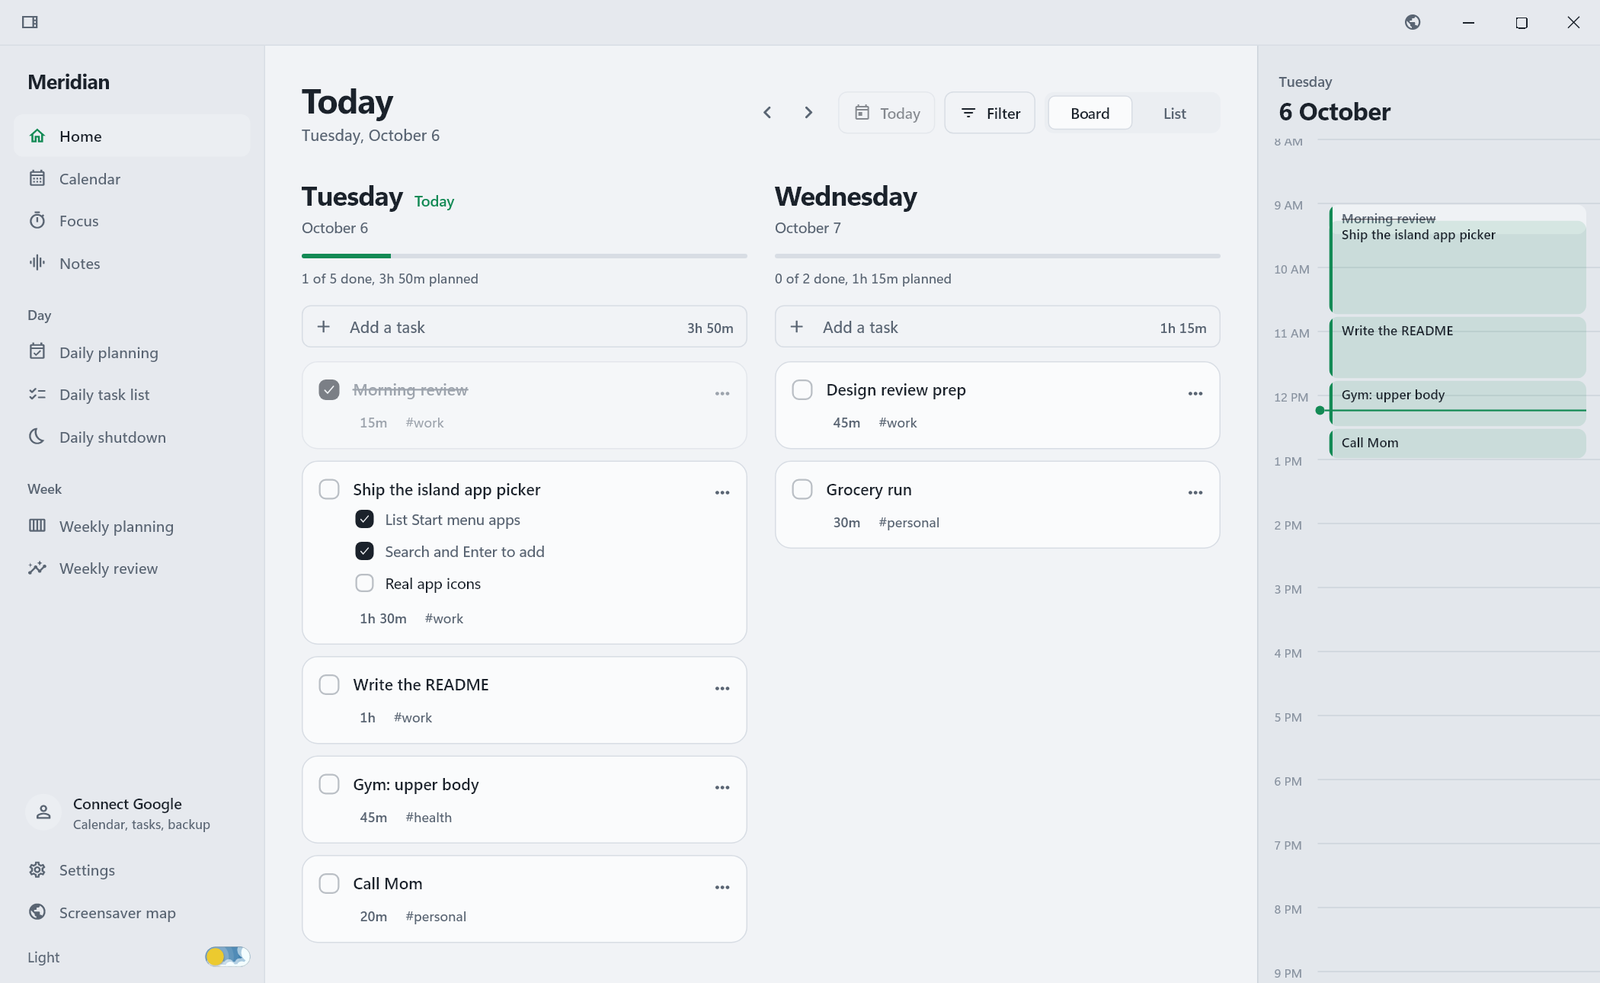
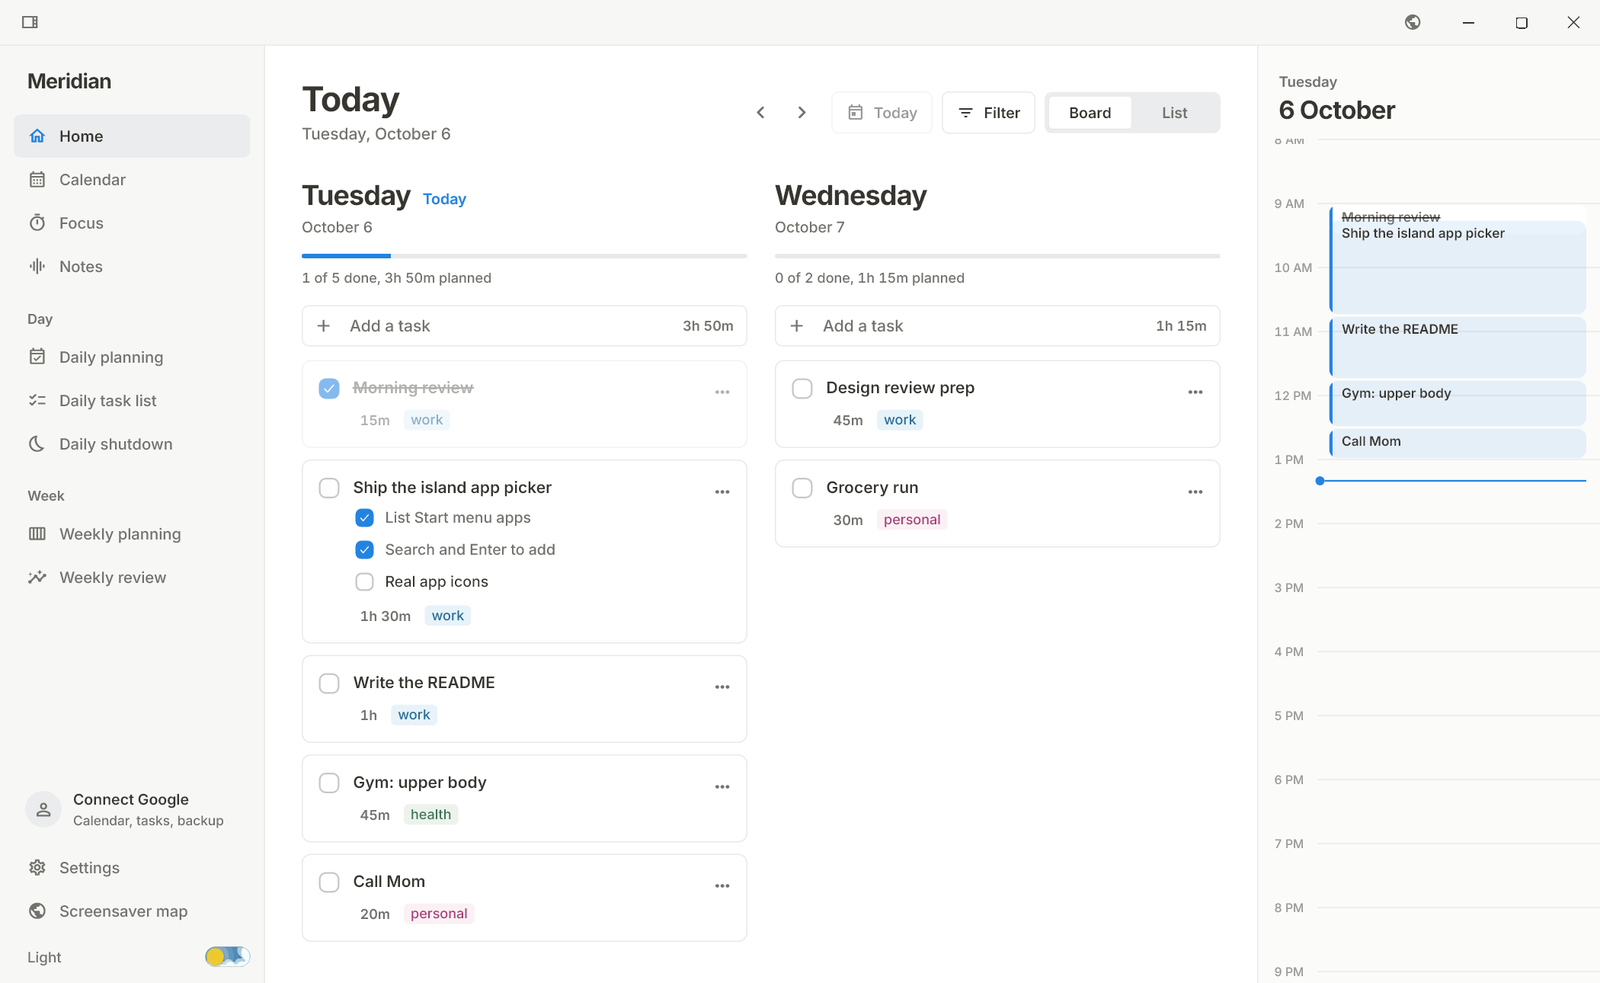
planner: Notion-style palette, pastel tags and flatter surfaces

diff --git a/aod_world_map/lib/desktop/home_theme.dart b/aod_world_map/lib/desktop/home_theme.dart
@@ -6,9 +6,10 @@ const _monthNames = [
   'September', 'October', 'November', 'December',
 ];
 
-/// Shape rule for the whole planner: controls and inputs use 8, surfaces
-/// use 14, checkboxes use 6, toggles are pills. Nothing else.
-const _rSm = 8.0, _rLg = 14.0;
+/// Shape rule for the whole planner: controls and inputs use 6, surfaces
+/// use 8, checkboxes use 6, toggles are pills. Nothing else. Small radii and
+/// hairline borders instead of shadows keep it flat and document-like.
+const _rSm = 6.0, _rLg = 8.0;
 const _fontFallback = ['Segoe UI', 'Roboto'];
 
 class _FontChoice {
@@ -17,8 +18,8 @@ class _FontChoice {
 }
 
 const _fonts = [
-  _FontChoice('Segoe UI', 'Segoe UI Variable Display', 'Current default, built into Windows'),
-  _FontChoice('Inter', 'Inter', 'Bundled with the app'),
+  _FontChoice('Inter', 'Inter', 'Default, bundled with the app'),
+  _FontChoice('Segoe UI', 'Segoe UI Variable Display', 'Built into Windows'),
   _FontChoice('Geist', 'Geist', 'Bundled with the app'),
   _FontChoice('Plus Jakarta Sans', 'Plus Jakarta Sans', 'Bundled with the app'),
   _FontChoice('Satoshi', 'Satoshi', 'Install it in Windows first, then pick it'),
@@ -52,44 +53,76 @@ TextStyle _ts(
       fontSize: size,
       fontWeight: w,
       letterSpacing: ls,
-      height: h,
+      // Body text gets room to breathe; headings stay tight.
+      height: h ?? (size <= 15 ? 1.45 : null),
       decoration: deco,
       fontFeatures: tab ? const [FontFeature.tabularFigures()] : null,
       // Variable fonts need the weight axis set explicitly. Static fonts ignore it.
       fontVariations: [FontVariation('wght', w.value.toDouble())],
     );
 
-/// One palette: deep slate greys, one emerald accent for progress only.
-/// Buttons and checks use the foreground colour, like shadcn's neutral theme.
+/// One palette in the spirit of Notion: warm neutrals on white (or near
+/// black), hairline dividers, and one calm blue accent for selection,
+/// progress and checks. Text tiers are the main text colour at lower
+/// strength, pre-blended so they stay solid on any surface.
 class _T {
   _T(this.dark)
-      : bg = dark ? const Color(0xFF1B2129) : const Color(0xFFF1F3F6),
-        side = dark ? const Color(0xFF161B22) : const Color(0xFFE6E9EE),
-        surface = dark ? const Color(0xFF222932) : const Color(0xFFFAFBFC),
-        raised = dark ? const Color(0xFF2B333D) : const Color(0xFFEBEEF2),
-        line = dark ? const Color(0xFF353E4A) : const Color(0xFFD8DDE4),
-        text = dark ? const Color(0xFFE6EAF0) : const Color(0xFF1B222B),
-        sub = dark ? const Color(0xFFA3ADBA) : const Color(0xFF5A6573),
-        faint = dark ? const Color(0xFF737E8C) : const Color(0xFF8A94A1),
-        focus = dark ? const Color(0xFF9AA5B3) : const Color(0xFF3C4652),
-        accent = dark ? const Color(0xFF3DD68C) : const Color(0xFF138A55),
-        onAccent = dark ? const Color(0xFF07140D) : const Color(0xFFFBFBFC),
-        warn = dark ? const Color(0xFFF0757D) : const Color(0xFFC0392B),
-        panel = dark ? const Color(0xFF1F2630) : const Color(0xFFE3E7EC),
-        panelLine = dark ? const Color(0xFF323B47) : const Color(0xFFCDD3DB),
-        panelCard = dark ? const Color(0xFF29313C) : const Color(0xFFEFF2F5);
+      : bg = dark ? const Color(0xFF191919) : const Color(0xFFFFFFFF),
+        side = dark ? const Color(0xFF202020) : const Color(0xFFF7F7F5),
+        surface = dark ? const Color(0xFF202020) : const Color(0xFFFFFFFF),
+        raised = dark ? const Color(0xFF37352F) : const Color(0xFFEBECED),
+        line = dark ? const Color(0xFF2F2F2F) : const Color(0xFFE9E9E7), // text at ~9%
+        text = dark ? const Color(0xFFE8E8E8) : const Color(0xFF37352F), // dark: white at 90%
+        sub = dark ? const Color(0xFFA3A3A3) : const Color(0xFF73726D), // text at 60% / 70%
+        faint = dark ? const Color(0xFF818181) : const Color(0xFF9B9A97), // text at 45% / 50%
+        focus = dark ? const Color(0xFFA3A3A3) : const Color(0xFF37352F),
+        accent = const Color(0xFF2383E2),
+        onAccent = const Color(0xFFFFFFFF),
+        warn = dark ? const Color(0xFFFF7369) : const Color(0xFFD44C47),
+        panel = dark ? const Color(0xFF202020) : const Color(0xFFFBFBFA),
+        panelLine = dark ? const Color(0xFF2F2F2F) : const Color(0xFFE9E9E7),
+        panelCard = dark ? const Color(0xFF252525) : const Color(0xFFFFFFFF);
 
   final bool dark;
   final Color bg, side, surface, raised, line, text, sub, faint, focus, accent, onAccent, warn;
   final Color panel, panelLine, panelCard;
-  Color get accentSoft => accent.withValues(alpha: dark ? 0.16 : 0.12);
+  Color get accentSoft => accent.withValues(alpha: dark ? 0.16 : 0.10);
+
+  /// A tag's pastel: a soft tint behind text of the same hue, darker in
+  /// light mode and lighter in dark mode so it reads at small sizes.
+  ({Color bg, Color fg}) tag(String name) {
+    final hue = switch (name) {
+      'work' => 0,
+      'personal' => 1,
+      'health' => 2,
+      _ => 3 + name.codeUnits.fold(0, (a, b) => a + b) % (_tagFg.length - 3),
+    };
+    final fg = (dark ? _tagFgDark : _tagFg)[hue];
+    return dark
+        ? (bg: Color.alphaBlend(fg.withValues(alpha: 0.2), bg), fg: fg)
+        : (bg: _tagBg[hue], fg: fg);
+  }
 }
+
+// Blue, pink, green, then yellow, purple, orange, red, brown for other tags.
+const _tagBg = [
+  Color(0xFFE7F3F8), Color(0xFFFAF1F5), Color(0xFFEDF3EC), Color(0xFFFBF3DB),
+  Color(0xFFF6F3F9), Color(0xFFFBECDD), Color(0xFFFDEBEC), Color(0xFFF4EEEE),
+];
+const _tagFg = [
+  Color(0xFF2B6F99), Color(0xFFA83F77), Color(0xFF3C7556), Color(0xFF8A6214),
+  Color(0xFF7A4FA0), Color(0xFFA4560B), Color(0xFFB53F3A), Color(0xFF80553F),
+];
+const _tagFgDark = [
+  Color(0xFF6FB0DA), Color(0xFFEC7DB8), Color(0xFF4DAB9A), Color(0xFFDFAB01),
+  Color(0xFFB593E6), Color(0xFFFFA344), Color(0xFFFF7369), Color(0xFFC99A86),
+];
 
 /// Planner preferences, saved next to the other app files.
 class _Prefs extends ChangeNotifier {
   static final _Prefs i = _Prefs();
 
-  String font = 'Segoe UI Variable Display';
+  String font = 'Inter';
   bool sidebarOpen = true, showSchedule = true;
   Set<String> calHidden = {};
   int calMode = 1; // Calendar page: 0 day, 1 week, 2 month

diff --git a/aod_world_map/lib/desktop/home_widgets.dart b/aod_world_map/lib/desktop/home_widgets.dart
@@ -106,9 +106,9 @@ class _BtnState extends State<_Btn> {
     final t = widget.t;
     final on = widget.onTap != null;
     final primary = widget.primary;
-    final fg = primary ? t.bg : t.text;
+    final fg = primary ? t.onAccent : t.text;
     final bg = primary
-        ? (_hover && on ? Color.lerp(t.text, t.bg, 0.12)! : t.text)
+        ? (_hover && on ? Color.lerp(t.accent, Colors.black, 0.1)! : t.accent)
         : (_hover && on ? t.raised : Colors.transparent);
     final border = primary || widget.ghost ? Colors.transparent : t.line;
     return Opacity(
@@ -243,6 +243,23 @@ class _Seg extends StatelessWidget {
 
 /// Animated checkbox: square box, foreground fill when checked, tick drawn
 /// stroke by stroke. Ported from the supplied React component.
+/// A tag as a soft pastel pill, the way Notion shows select options.
+class _TagChip extends StatelessWidget {
+  const _TagChip(this.t, this.tag);
+  final _T t;
+  final String tag;
+
+  @override
+  Widget build(BuildContext context) {
+    final c = t.tag(tag);
+    return Container(
+      padding: const EdgeInsets.symmetric(horizontal: 6, vertical: 1),
+      decoration: BoxDecoration(color: c.bg, borderRadius: BorderRadius.circular(4)),
+      child: Text(tag, style: _ts(c.fg, 12, h: 1.35)),
+    );
+  }
+}
+
 class _Check extends StatefulWidget {
   const _Check(this.t, this.done, this.onTap, {this.size = 18});
   final _T t;
@@ -274,7 +291,7 @@ class _CheckState extends State<_Check> {
             width: s,
             height: s,
             decoration: BoxDecoration(
-              color: widget.done ? t.text : Colors.transparent,
+              color: widget.done ? t.accent : Colors.transparent,
               borderRadius: BorderRadius.circular(6 * s / 18),
               border: Border.all(
                 color: widget.done ? Colors.transparent : t.sub.withValues(alpha: _hover ? 0.6 : 0.4),
@@ -285,7 +302,7 @@ class _CheckState extends State<_Check> {
               tween: Tween<double>(end: widget.done ? 1 : 0),
               duration: const Duration(milliseconds: 300),
               curve: Curves.easeOut,
-              builder: (_, v, __) => CustomPaint(painter: _TickPainter(v, t.bg)),
+              builder: (_, v, __) => CustomPaint(painter: _TickPainter(v, t.onAccent)),
             ),
           ),
         ),

diff --git a/aod_world_map/lib/desktop/home_calendar.dart b/aod_world_map/lib/desktop/home_calendar.dart
@@ -592,9 +592,17 @@ class _CalendarViewState extends State<_CalendarView> {
             _IconBtn(t, Icons.view_sidebar_outlined, 'Show sidebar  `', () => setState(() => _rail = true), size: 17),
             const SizedBox(width: 6),
           ],
-          AnimatedSwitcher(
-            duration: const Duration(milliseconds: 180),
-            child: Text(_title, key: ValueKey(_title), style: _ts(t.text, 22, w: FontWeight.w700, ls: -0.5)),
+          // The title gives way (with an ellipsis) when the window is narrow.
+          Flexible(
+            child: AnimatedSwitcher(
+              duration: const Duration(milliseconds: 180),
+              child: Text(_title,
+                  key: ValueKey(_title),
+                  maxLines: 1,
+                  softWrap: false,
+                  overflow: TextOverflow.ellipsis,
+                  style: _ts(t.text, 22, w: FontWeight.w700, ls: -0.5)),
+            ),
           ),
           const SizedBox(width: 12),
           AnimatedOpacity(
@@ -1437,9 +1445,7 @@ class _CalTimeGridState extends State<_CalTimeGrid> {
                         child: DecoratedBox(
                           decoration: BoxDecoration(
                             borderRadius: BorderRadius.circular(4),
-                            boxShadow: [
-                              BoxShadow(color: Colors.black.withValues(alpha: t.dark ? 0.45 : 0.15), blurRadius: 12, offset: const Offset(0, 4)),
-                            ],
+                            border: Border.all(color: t.line),
                           ),
                           child: _TimedBlock(
                             t: t,

diff --git a/aod_world_map/lib/desktop/home_tasks.dart b/aod_world_map/lib/desktop/home_tasks.dart
@@ -271,8 +271,8 @@ class _TaskCard extends StatelessWidget {
                       radius: 6,
                       onTap: () => p.cycleTag(task),
                       child: Padding(
-                        padding: const EdgeInsets.symmetric(horizontal: 6, vertical: 3),
-                        child: Text('#${task.tag}', style: _ts(t.sub, 12)),
+                        padding: const EdgeInsets.all(2),
+                        child: _TagChip(t, task.tag),
                       ),
                     ),
                   ),

diff --git a/aod_world_map/lib/desktop/home_planning.dart b/aod_world_map/lib/desktop/home_planning.dart
@@ -63,7 +63,7 @@ class _TaskListView extends StatelessWidget {
             _Check(t, task.done, () => p.toggle(task)),
             const SizedBox(width: 12),
             Expanded(child: _StrikeText(t, task.title, task.done, size: 14)),
-            Text('#${task.tag}', style: _ts(t.sub, 12)),
+            _TagChip(t, task.tag),
             const SizedBox(width: 14),
             Text(_dur(task.minutes), style: _ts(t.sub, 12, w: FontWeight.w600, tab: true)),
             const SizedBox(width: 4),
